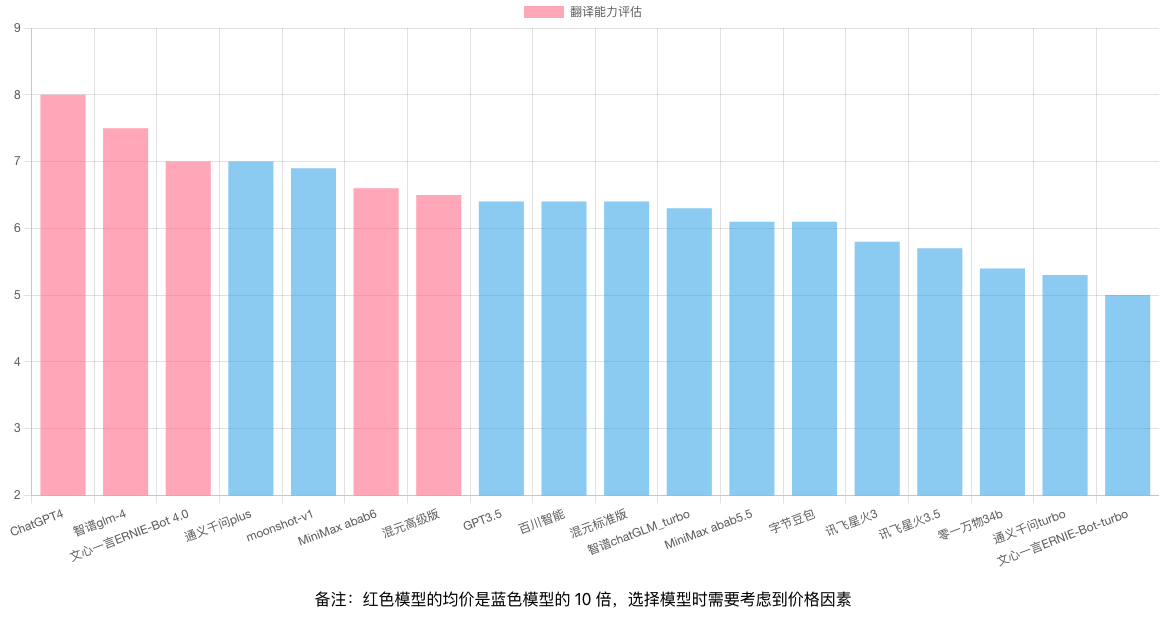
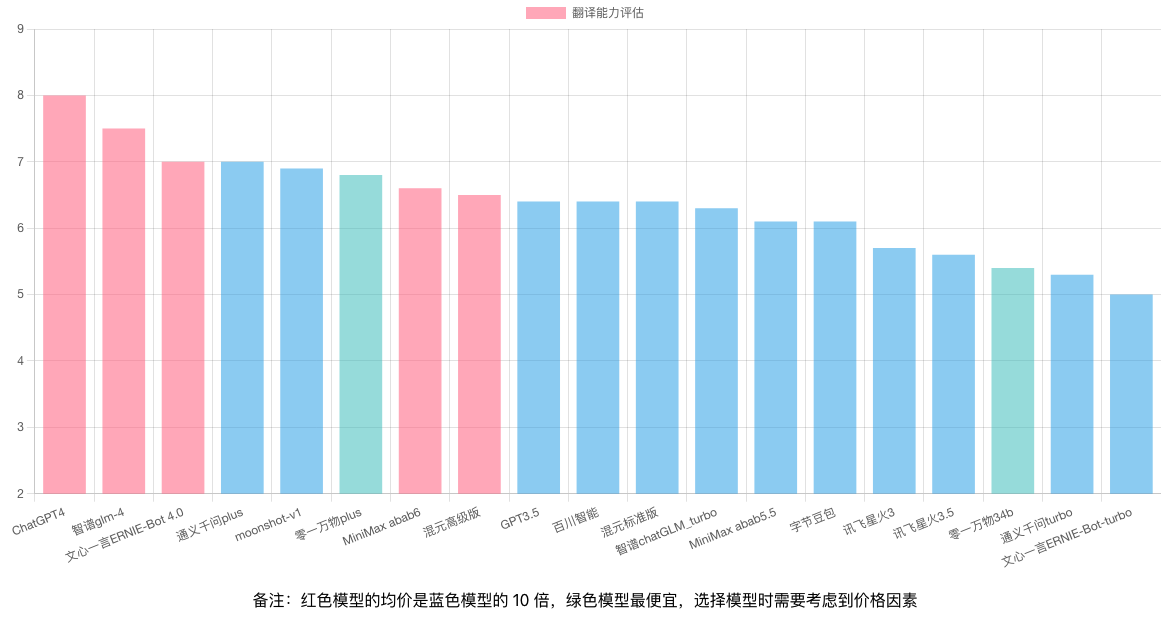
Add translation capability test results for yi-vl-plus

diff --git a/ai-hub-fe/src/ModelAssess.js b/ai-hub-fe/src/ModelAssess.js
@@ -22,9 +22,15 @@ const ModelAssess = () => {
                 .then(data => {
                     const labels = data.map(item => item.modelAlias);
                     const ratings = data.map(item => item.rating / 10);
-                    const backgroundColors = data.map(item =>
-                        item.modelVersion >= 10 ? 'rgba(255, 99, 132, 0.5)' : 'rgba(54, 162, 235, 0.5)'
-                    );
+                    const backgroundColors = data.map(item => {
+                        if (item.modelVersion >= 100) {
+                            return 'rgba(255, 99, 132, 0.5)';  // 红色
+                        } else if (item.modelVersion >= 10) {
+                            return 'rgba(54, 162, 235, 0.5)';  // 蓝色
+                        } else {
+                            return 'rgba(75, 192, 192, 0.5)';  // 绿色
+                        }
+                    });
 
                     return new Chart(chartRef.current, {
                         type: 'bar',
@@ -73,15 +79,15 @@ const ModelAssess = () => {
             <div className="charts-container">
                 <div>
                     <canvas ref={translationChartRef}/>
-                    <p>备注：红色模型的均价是蓝色模型的 10 倍，选择模型时需要考虑到价格因素</p>
+                    <p>备注：红色模型的均价是蓝色模型的 10 倍，绿色模型最便宜，选择模型时需要考虑到价格因素</p>
                 </div>
                 <div>
                     <canvas ref={codingChartRef}/>
-                    <p>备注：红色模型的均价是蓝色模型的 10 倍，选择模型时需要考虑到价格因素</p>
+                    <p>备注：红色模型的均价是蓝色模型的 10 倍，绿色模型最便宜，选择模型时需要考虑到价格因素</p>
                 </div>
                 <div>
                     <canvas ref={instructionChartRef}/>
-                    <p>备注：红色模型的均价是蓝色模型的 10 倍，选择模型时需要考虑到价格因素</p>
+                    <p>备注：红色模型的均价是蓝色模型的 10 倍，绿色模型最便宜，选择模型时需要考虑到价格因素</p>
                 </div>
             </div>
         </div>

diff --git a/ai-hub-fe/src/Chat.js b/ai-hub-fe/src/Chat.js
@@ -23,6 +23,7 @@ function Chat() {
         'ByteDance/Skylark-chat': true,
         'Lingyi/yi-34b-chat-0205': true,
         'Lingyi/yi-34b-chat-200k': true,
+        'Lingyi/yi-vl-plus': true,
 
         'Baidu/ERNIE-Bot-4': false,
         'Zhipu/glm-4': false,

diff --git a/ai-hub-server/src/main/java/com/github/xielong/aihub/util/AIModel.java b/ai-hub-server/src/main/java/com/github/xielong/aihub/util/AIModel.java
@@ -6,25 +6,26 @@ import lombok.Getter;
 @AllArgsConstructor
 @Getter
 public enum AIModel {
-    OPENAI_GPT3_5_TURBO(1, "gpt-3.5-turbo-0125", "GPT3.5", AIProvider.OPENAI.getName(), 1),
-    BAIDU_ERNIE_BOT_TURBO(2, "ERNIE-Bot-turbo", "文心一言ERNIE-Bot-turbo", AIProvider.BAIDU.getName(), 1),
-    ALI_QWEN_TURBO(3, "qwen-turbo", "通义千问turbo", AIProvider.ALI.getName(), 1),
-    TENCENT_CHAT_STD(4, "ChatStd", "混元标准版", AIProvider.TENCENT.getName(), 1),
-    BAICHUAN_BAICHUAN2_TURBO(5, "Baichuan2-Turbo", "百川智能", AIProvider.BAICHUAN.getName(), 1),
-    ZHIPU_CHAT_GLM_TURBO(6, "chatGLM_turbo", "智谱chatGLM_turbo", AIProvider.ZHIPU.getName(), 1),
-    MINIMAX_ABAB5_5_CHAT(7, "abab5.5-chat", "MiniMax abab5.5", AIProvider.MINIMAX.getName(), 1),
-    XUNFEI_SPARK3_1(8, "Spark3.1", "讯飞星火3", AIProvider.XUNFEI.getName(), 1),
-    BAIDU_ERNIE_BOT_4(9, "ERNIE-Bot-4", "文心一言ERNIE-Bot 4.0", AIProvider.BAIDU.getName(), 10),
-    ALI_QWEN_PLUS(10, "qwen-plus", "通义千问plus", AIProvider.ALI.getName(), 2),
-    ZHIPU_GLM_4(11, "glm-4", "智谱glm-4", AIProvider.ZHIPU.getName(), 10),
-    TENCENT_CHAT_PRO(12, "ChatPro", "混元高级版", AIProvider.TENCENT.getName(), 10),
-    MINIMAX_ABAB6_CHAT(13, "abab6-chat", "MiniMax abab6", AIProvider.MINIMAX.getName(), 10),
-    OPENAI_GPT4_1106_PREVIEW(14, "gpt-4-0125-preview", "ChatGPT4", AIProvider.OPENAI.getName(), 10),
-    MOONSHOT_V1_8K(15, "moonshot-v1-8k", "moonshot-v1", AIProvider.MOONSHOT.getName(), 1),
-    XUNFEI_SPARK3_5(16, "Spark3.5", "讯飞星火3.5", AIProvider.XUNFEI.getName(), 1),
-    BYTEDANCE_SKYLARK_CHAT(17, "Skylark-chat", "字节豆包", AIProvider.BYTEDANCE.getName(), 1),
-    LINGYI_YI_34B_CHAT(18, "yi-34b-chat-0205", "零一万物34b", AIProvider.LINGYI.getName(), 1),
-    LINGYI_YI_34B_CHAT_200k(19, "yi-34b-chat-200k", "零一万物200k", AIProvider.LINGYI.getName(), 1);
+    OPENAI_GPT3_5_TURBO(1, "gpt-3.5-turbo-0125", "GPT3.5", AIProvider.OPENAI.getName(), 10),
+    BAIDU_ERNIE_BOT_TURBO(2, "ERNIE-Bot-turbo", "文心一言ERNIE-Bot-turbo", AIProvider.BAIDU.getName(), 10),
+    ALI_QWEN_TURBO(3, "qwen-turbo", "通义千问turbo", AIProvider.ALI.getName(), 10),
+    TENCENT_CHAT_STD(4, "ChatStd", "混元标准版", AIProvider.TENCENT.getName(), 10),
+    BAICHUAN_BAICHUAN2_TURBO(5, "Baichuan2-Turbo", "百川智能", AIProvider.BAICHUAN.getName(), 10),
+    ZHIPU_CHAT_GLM_TURBO(6, "chatGLM_turbo", "智谱chatGLM_turbo", AIProvider.ZHIPU.getName(), 10),
+    MINIMAX_ABAB5_5_CHAT(7, "abab5.5-chat", "MiniMax abab5.5", AIProvider.MINIMAX.getName(), 10),
+    XUNFEI_SPARK3_1(8, "Spark3.1", "讯飞星火3", AIProvider.XUNFEI.getName(), 10),
+    BAIDU_ERNIE_BOT_4(9, "ERNIE-Bot-4", "文心一言ERNIE-Bot 4.0", AIProvider.BAIDU.getName(), 100),
+    ALI_QWEN_PLUS(10, "qwen-plus", "通义千问plus", AIProvider.ALI.getName(), 20),
+    ZHIPU_GLM_4(11, "glm-4", "智谱glm-4", AIProvider.ZHIPU.getName(), 100),
+    TENCENT_CHAT_PRO(12, "ChatPro", "混元高级版", AIProvider.TENCENT.getName(), 100),
+    MINIMAX_ABAB6_CHAT(13, "abab6-chat", "MiniMax abab6", AIProvider.MINIMAX.getName(), 100),
+    OPENAI_GPT4_1106_PREVIEW(14, "gpt-4-0125-preview", "ChatGPT4", AIProvider.OPENAI.getName(), 100),
+    MOONSHOT_V1_8K(15, "moonshot-v1-8k", "moonshot-v1", AIProvider.MOONSHOT.getName(), 10),
+    XUNFEI_SPARK3_5(16, "Spark3.5", "讯飞星火3.5", AIProvider.XUNFEI.getName(), 10),
+    BYTEDANCE_SKYLARK_CHAT(17, "Skylark-chat", "字节豆包", AIProvider.BYTEDANCE.getName(), 10),
+    LINGYI_YI_34B_CHAT(18, "yi-34b-chat-0205", "零一万物34b", AIProvider.LINGYI.getName(), 2),
+    LINGYI_YI_34B_CHAT_200k(19, "yi-34b-chat-200k", "零一万物200k", AIProvider.LINGYI.getName(), 12),
+    LINGYI_YI_VL_PLUS(20, "yi-vl-plus", "零一万物plus", AIProvider.LINGYI.getName(), 6);
 
     private final int id;
     private final String name;

diff --git a/docs/use_cases/translation/case3.md b/docs/use_cases/translation/case3.md
@@ -52,6 +52,12 @@ A good software architecture would reduce the amount of changed code to the bare
 ### Lingyi/yi-34b-chat-0205 (7)
 想象一下，我们有一个系统，它在一个网页上显示财务摘要。网页上的数据可以滚动，负数以红色显示。 现在，假设利益相关者要求我们将相同的信息制作成一个报告，以便在黑白打印机上打印。这个报告需要有页码、页眉、页脚和列标题，并且负数需要用括号括起来。 显然，我们需要编写一些新的代码来实现这个功能。但是，我们需要修改多少旧的代码呢？ 一个好的软件架构设计应该尽可能少地改变旧代码。理想情况下，我们不应该改变任何旧代码。
 
+## Lingyi/yi-vl-plus (7)
+设想我们有一个系统，可以在网页上展示财务摘要。网页上的数据可以滚动，负数显示为红色。
+现在，设想利益相关方要求我们将相同的信息制作成一份报告，用于黑白打印机打印。报告需要适当分页，包括适当的页眉、页脚和列标签，负数应被括号包围。
+显然，我们需要编写一些新的代码。但需要修改多少旧的代码呢？
+一个优秀的软件架构应尽量减少需要修改的旧代码量，理想情况下为零。
+
 ### Xunfei/Spark3.5（6.5）
 想象一下，我们有这样一个系统：在网页上显示财务摘要。页面上的数据显示可滚动，负数以红色渲染。 现在想象一下，利益相关者要求将这些相同的信息转换为报告，以便在黑白打印机上打印出来。报告应正确分页，包括适当的页眉、页脚和列标签。负数应用括号括起来。 显然，必须编写一些新的代码。但是需要更改多少旧代码？ 一个好的软件架构会将更改的代码量减少到最低限度。理想情况下是零。
 

diff --git a/docs/use_cases/translation/case5.md b/docs/use_cases/translation/case5.md
@@ -49,6 +49,11 @@ consciousness.
 
 然而骑上摩托车，那层束缚消失了。你彻底融入周围的环境，不再是简单的旁观者，而是身处其境，那种强烈的现场感简直让人难以抵挡。紧贴着你脚下的混凝土路面快速掠过，那实实在在的质地，正是你平日所走的地面，虽因速度之快变得模糊不清，但只要你愿意，随时都能伸出脚去触摸，这个过程中的每一刻、每一次感官体验都清晰如新地呈现在你的意识之中。
 
+## Lingyi/yi-vl-plus（6.5）
+摩托车旅行让你以一种完全不同于其他任何方式的方式看到事物。在汽车里，你总是处在一个隔间里，因为你已经习惯了，所以你并不意识到，通过汽车窗户，你所看到的一切都只是更多的电视画面。你是一个被动的观察者，一切都在你眼前无聊地移动。
+
+在自行车上，画框已经消失。你完全接触到了周围的一切。你身临其境，不再只是旁观者。那种存在感是压倒性的。在你脚底下，五英寸之下飞驰的混凝土是真实的存在，与你行走的相同，它就在那里，虽然模糊到无法聚焦，但你可以随时放下脚并接触它。整个过程，整个经历，从未从立即意识中消失。
+
 ### Minimax/abab6-chat（6）
 骑摩托车旅行时，你看待世界的方式与众不同。在汽车里，你始终处于一个封闭的空间，窗外的景色对你来说就像电视画面一样平常。你只是一个被动的观察者，窗外的一切在无趣的框架中缓缓移动。
 

diff --git a/docs/use_cases/translation/case6.md b/docs/use_cases/translation/case6.md
@@ -79,6 +79,10 @@ The lore of the field is accumulating. There have been several conferences, sess
 
 这个领域的传说正在积累。已经举办过几次会议，在AFIPS会议上也有一些会议，还出版了一些书籍和论文。但目前它还没有准备好接受系统的教科书式的处理。不过，似乎应该提供这本小书，这反映了个人观点，这似乎是合适的。
 
+## Lingyi/yi-vl-plus (6)
+在许多方面，管理一个大型计算机编程项目就像管理任何其他大型任务一样——这一点比大多数程序员想象的更相似。但在许多其他方面，它也不同——这一点比大多数专业经理预想的更不同。
+该领域的传说正在积聚。已经举行了多次会议，在AFIPS会议上的一些会话，一些书籍，以及论文。然而，它还没有达到任何系统教科书的标准。然而，提供这本小书似乎是合适的，这本书主要反映个人观点。
+
 ### Xunfei/Spark3.1（5.5）
 管理一个大型计算机编程项目在许多方面与其他大型项目的管理相似——在很多方面超过了大多数程序员的认知。然而，在其他许多方面却有所不同——这是大多数职业经理人预料不到的。 
 

diff --git a/docs/use_cases/translation/case2.md b/docs/use_cases/translation/case2.md
@@ -8,6 +8,9 @@ All mine were written by men (it was always men) who held the interesting notion
 ### OpenAI/ChatGPT4（8）
 这些书籍都是男性作者（似乎总是男性）所写，他们坚信一个有趣的理念：只要以公式表达，任何内容都会变得明晰。他们还有个可笑的误解，以为在章节末尾附上一些问题，会让美国孩子们利用空闲时间去思考，而这些孩子们会对此感到兴趣。
 
+## Lingyi/yi-vl-plus (8)
+所有的书都是由男性作者（一直都是男性）撰写的，他们持有这样一种有趣的观点，认为将一切表述为公式后，问题就会豁然开朗；更有趣的是，他们竟然天真地相信，美国的孩子们会喜欢在闲暇时，对每个章节末尾的问题进行思考。
+
 ### OpenAI/gpt-3.5-turbo（7）
 所有我的书都是由男性（总是男性）写的，他们抱着这样一个有趣的观点，认为一切都可以用公式表达清楚，并滑稽地相信美国的孩子们会喜欢在每章结束时有一节问题供他们自己思考。
 

diff --git a/docs/use_cases/translation/case1.md b/docs/use_cases/translation/case1.md
@@ -43,6 +43,9 @@ Not all solutions to a problem are pretty. This may mean little to no tests, poo
 ### Baidu/ERNIE-Bot-4（6.5）
 针对一个问题，并非所有解决方案都是优雅的。这可能意味着存在测试不足、性能不佳、代码丑陋等问题。有时，我们只需要一个能够证明问题可解的解决方案。尽管这个解决方案并不理想，但我们仍想确保问题是可以解决的。
 
+## Lingyi/yi-vl-plus（6）
+问题解决方案并不总是美观的。这可能意味着测试不足、性能不佳、代码丑陋等。有时我们只需要一个能解决问题的解决方案，来证明这个问题是可以解决的。我们希望确保这个问题是可以解决的，尽管解决方案不太理想。
+
 ### Xunfei/Spark3.5（6）
 并非所有问题的解决方案都美观。这可能意味着缺乏测试、性能不佳、代码丑陋等等。有时候，我们只需要一个解决方案来证明问题可以解决。我们希望确保问题是可解决的，尽管解决方案不太理想。
 
